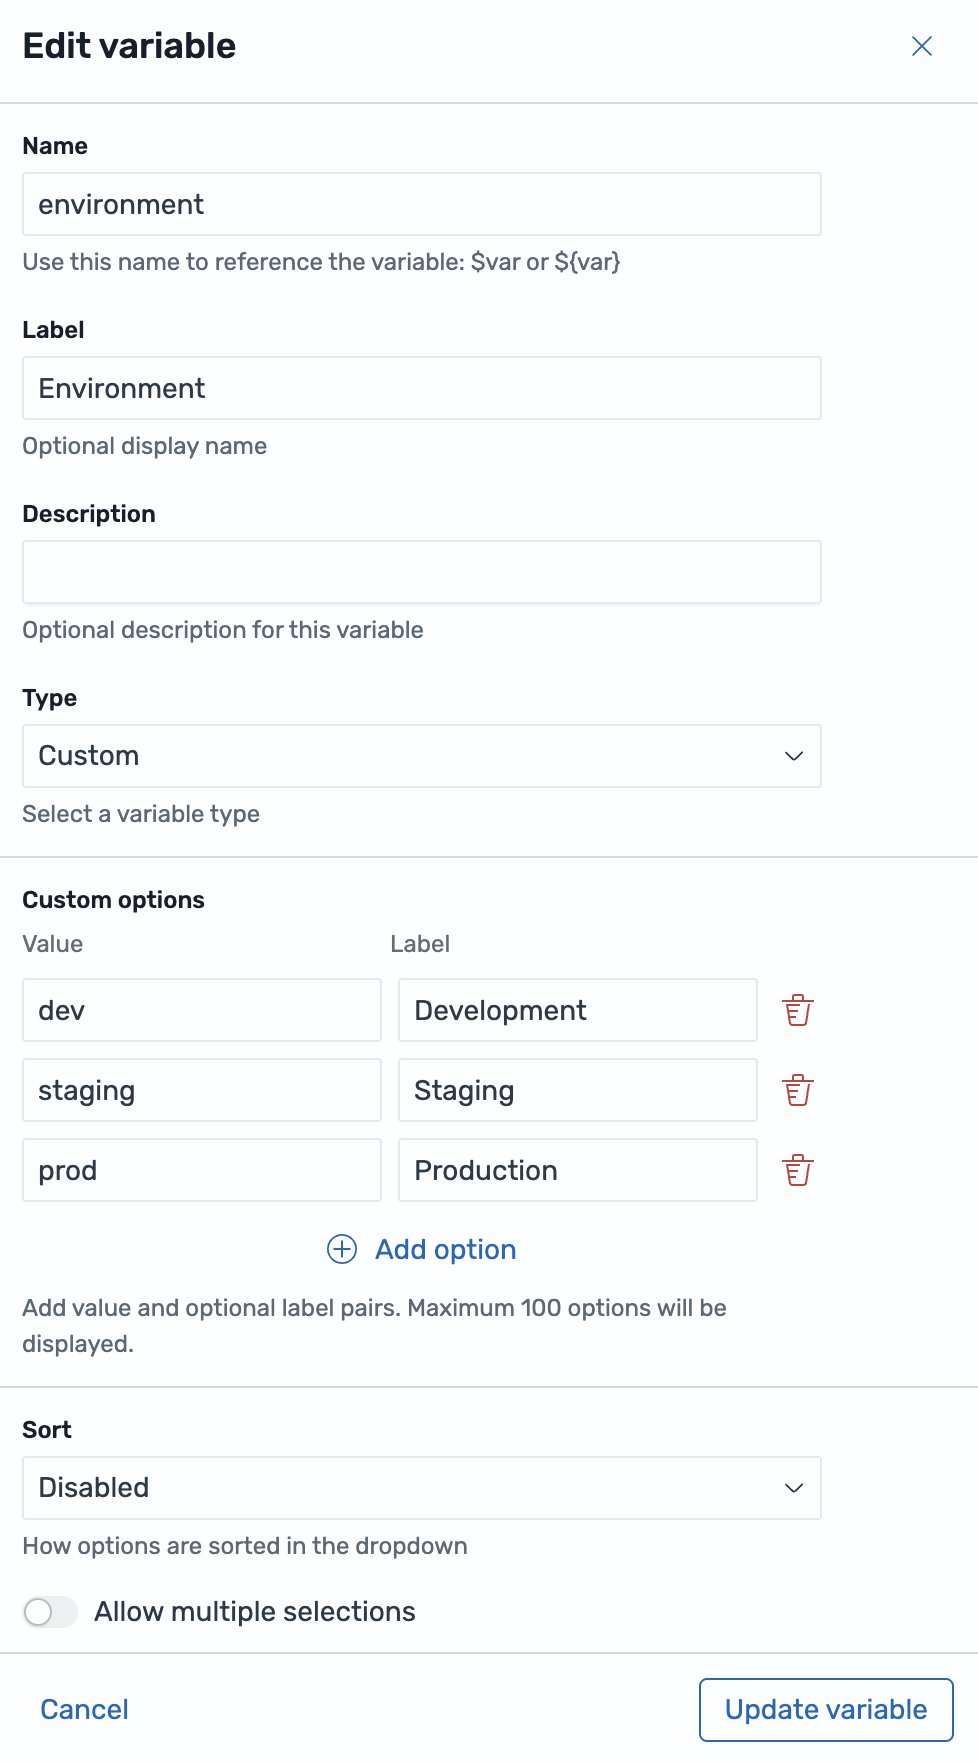
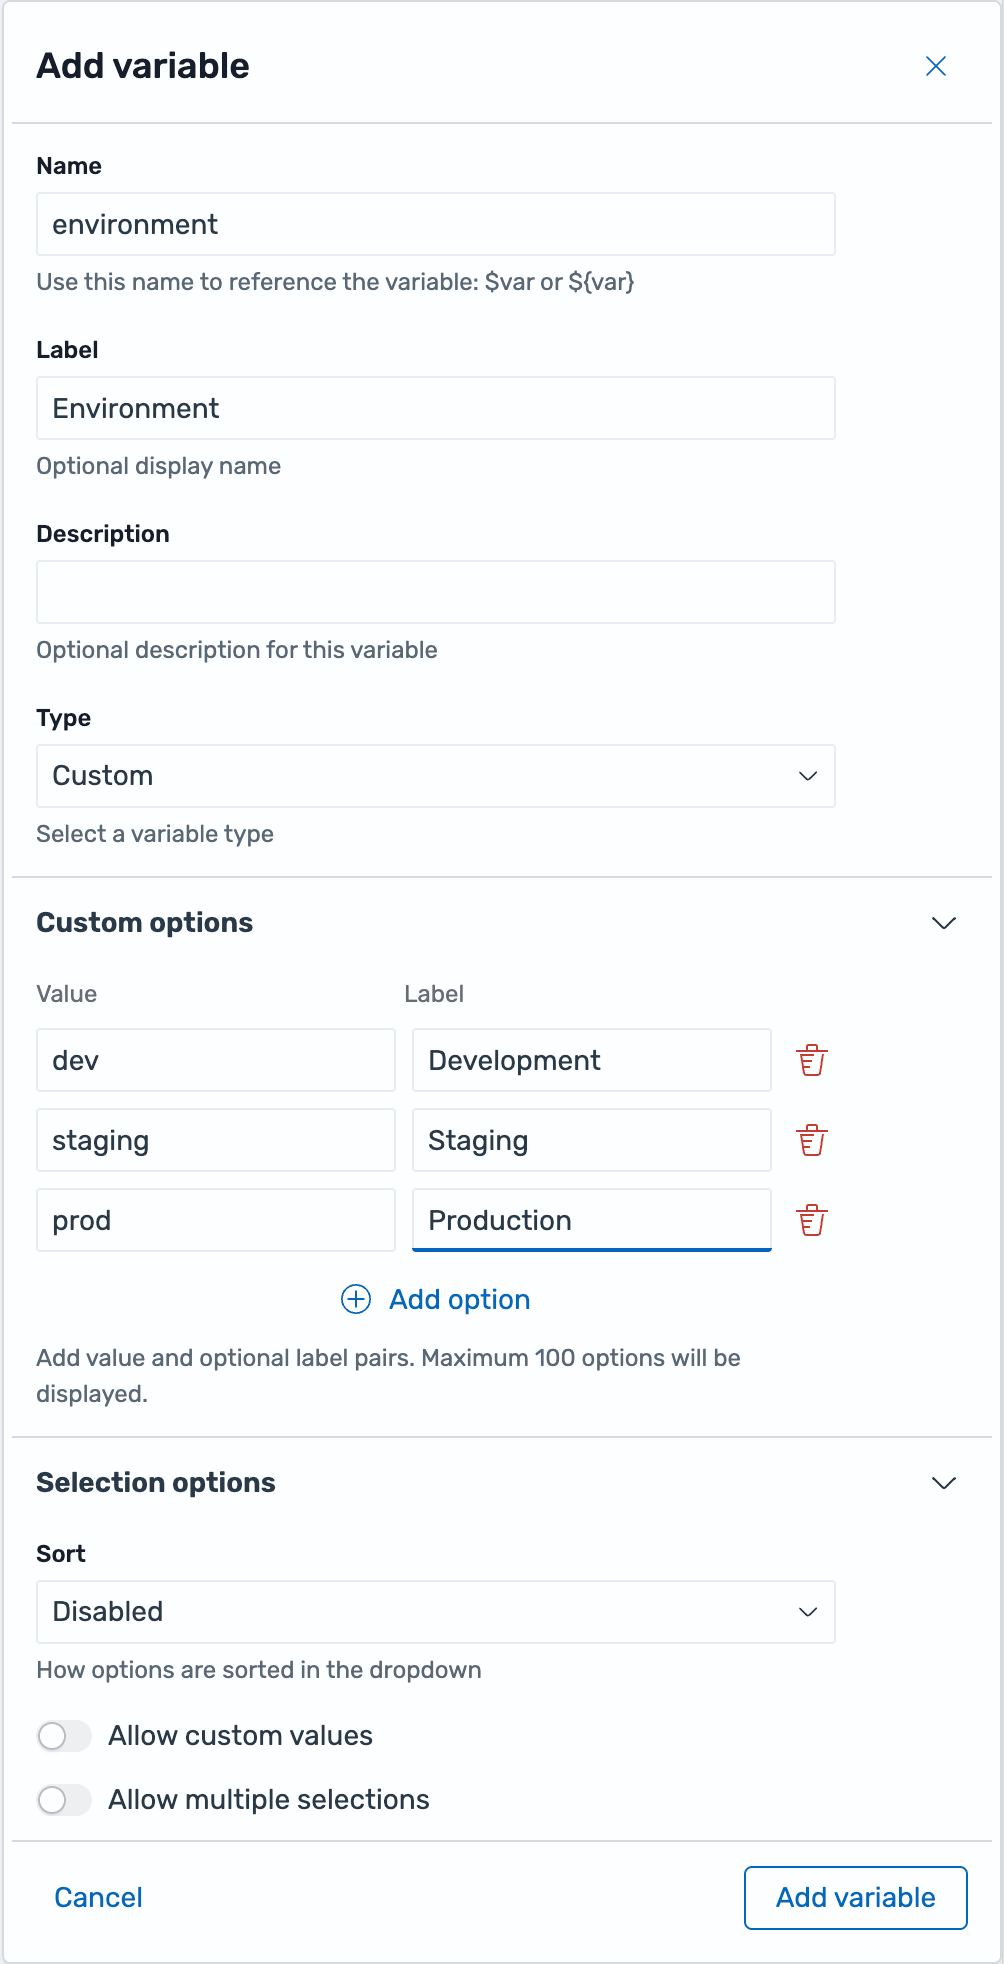
Update Dashboard Variables docs for Text/PromQL/regex and the modal query editor, and document the workspace asset migration wizard

diff --git a/_dashboards/visualize/visualization-editor/dashboard-variables/managing-variables.md b/_dashboards/visualize/visualization-editor/dashboard-variables/managing-variables.md
@@ -37,8 +37,9 @@ To create a query variable, follow these steps:
    - **Label**: Enter `Extension`. This is the display name shown at the top of the dashboard.
    - **Description**: Optionally, enter a description, such as `Filters visualizations by file extension`.
    - **Type**: Select **Query**.
-1. In **Options Query**, keep the language set to **PPL**.
-1. In the dataset selector, select `opensearch_dashboards_sample_data_logs`.
+1. Under **Query options**, select **Open variable editor** to open the query editor. The query editor opens in a modal with a pinned **Preview** panel.
+1. Keep the query language set to **PPL**. To build the query from Prometheus metadata instead, see [Using a PromQL query variable](#using-a-promql-query-variable).
+1. Select **Select dataset** and choose `opensearch_dashboards_sample_data_logs`.
 1. Enter the following query:
 
    ```sql
@@ -46,19 +47,20 @@ To create a query variable, follow these steps:
    ```
    {% include copy.html %}
 
-1. Select **Preview**. The preview runs the query, loads the fields returned by the query, and displays the first 100 variable options. You must successfully preview a query variable before you can save it.
 1. In **Value field**, select `extension`. The value field provides the value inserted into queries when you use `$extension` or `${extension}`.
 1. In **Label field**, keep **None**. Select a label field only when the query returns a separate field to display in the dropdown list in place of the stored value.
-1. Optional: In **Regex**, enter a regular expression to filter the available options by value. For example, `^(css|gz|zip)$` displays only the `css`, `gz`, and `zip` options.
-1. In **Refresh**, choose when OpenSearch Dashboards updates the variable options:
+1. Optional: In **Regex**, enter a regular expression to filter the available options or to extract values and labels from the query results. For example, `^(css|gz|zip)$` displays only the `css`, `gz`, and `zip` options. For more information, see [Filtering and extracting options with a regular expression](#filtering-and-extracting-options-with-a-regular-expression).
+1. Select **Preview**. The preview runs the query and displays the first 100 variable options in the **Preview of values** panel. You must successfully preview a query variable before you can apply it.
+1. Select **Apply** to save the query and close the editor.
+1. Back in the variable editor, in **Refresh**, choose when OpenSearch Dashboards updates the variable options:
    - **On dashboard load**: Refreshes options when the dashboard loads.
    - **On time range change**: Refreshes options when the dashboard time range changes. Use this option when the available values depend on the selected time range.
 1. Configure the shared option settings. For more information, see [Configuring variable option settings](#configuring-variable-option-settings).
 1. Select **Add variable**.
 
-The variable appears at the top of the dashboard. The following image shows an `extension` query variable configured using the sample web logs data.
+The variable appears at the top of the dashboard. The following image shows the query editor for an `extension` query variable configured using the sample web logs data.
 
-![Variable editor panel configured for an extension query variable using sample web logs data]({{site.url}}{{site.baseurl}}/images/dashboard-variables/query-variable-config.png){: width="500" }
+![Query editor configured for an extension PPL query variable using sample web logs data]({{site.url}}{{site.baseurl}}/images/dashboard-variables/query-variable-config.png){: width="700" }
 
 ### Mapping query result fields
 
@@ -70,6 +72,56 @@ A query variable can use one field as the stored value and another field as the 
 For example, if your query returns `service_id` and `service_name`, set **Value field** to `service_id` and **Label field** to `service_name`. The dropdown list displays the service name, and queries receive the service ID.
 
 If you do not select a value field, OpenSearch Dashboards uses the first field returned by the query. To avoid unexpected values, preview the query and explicitly select the field to use as the variable value.
+{: .tip}
+
+### Using a PromQL query variable
+
+When a query variable uses a dataset backed by a Prometheus data connection, you can set the query language to **PromQL**. Instead of writing a raw query, you build the variable from one of the following PromQL query types:
+
+- **Label names**: Lists the label names in the data. You can optionally scope the result to a metric.
+- **Label values**: Lists the values of a label that you choose. You can narrow the result with label matchers (`=`, `!=`, `=~`, and `!~`) and select a metric from the Metrics Explorer.
+- **Metrics**: Lists the metric names. You can optionally filter the result with a regular expression on the metric name.
+- **Series query**: Lists the full time series (label sets) that match a series selector.
+- **Query result**: Evaluates a raw PromQL expression, the same as the free-text path used for PPL.
+
+To create a PromQL query variable, follow these steps:
+
+1. At the top of the dashboard, select **Add variable**, and set **Type** to **Query**.
+1. Under **Query options**, select **Open variable editor** to open the query editor.
+1. Set the query language to **PromQL**.
+1. Select **Select dataset** and choose a dataset backed by a Prometheus data connection.
+1. In **Query type**, select a query type (for example, **Label values**) and complete its fields. For **Label values**, select the label and, optionally, a metric and one or more label matchers.
+1. Select **Preview** to load the options, then select **Apply** to save the query and close the editor.
+1. Configure refresh behavior, and then select **Add variable**.
+
+The following image shows a PromQL query variable configured with the **Label values** query type.
+
+![Variable editor panel configured for a PromQL label values query variable]({{site.url}}{{site.baseurl}}/images/dashboard-variables/promql-query-variable-config.png){: width="700" }
+
+A PromQL query variable requires a dataset backed by a Prometheus data connection in your Observability workspace.
+{: .note}
+
+### Filtering and extracting options with a regular expression
+
+The **Regex** field in a query variable supports two behaviors. You can enter the expression as a bare pattern (for example, `^win`) or in `/pattern/flags` form (for example, `/^win/i`).
+
+The following examples use a query variable created from the sample web logs `machine.os` field:
+
+```sql
+source = opensearch_dashboards_sample_data_logs | stats count() by `machine.os` | fields `machine.os`
+```
+{% include copy.html %}
+
+Previewing this query returns the options `ios`, `osx`, `win 7`, `win 8`, and `win xp`. You can then apply a regular expression to those results:
+
+- **Filtering**: When the regular expression has no `value` or `label` capture group, OpenSearch Dashboards keeps only the options that match and leaves them unchanged. For example, `^win` keeps only `win 7`, `win 8`, and `win xp`.
+- **Extracting**: When the regular expression includes a named `(?<value>...)` capture group, OpenSearch Dashboards replaces each option's value with the captured text. An optional named `(?<label>...)` group sets the display label. Options that resolve to the same value are deduplicated automatically. For example, `^(?<value>ios|osx|win)` extracts the operating system family, so `win 7`, `win 8`, and `win xp` collapse into a single `win` option, leaving `ios`, `osx`, and `win`.
+
+To set a separate display label, add a `(?<label>...)` group. For example, if a query returns compound values such as `env=dev,label=Development`, the pattern `^env=(?<value>[^,]+),label=(?<label>.+)$` stores `dev` as the value and shows `Development` in the dropdown.
+
+![Regex field extracting the operating system family from the sample web logs machine.os field]({{site.url}}{{site.baseurl}}/images/dashboard-variables/regex-capture-groups.png){: width="700" }
+
+When you edit an existing variable, the query preview runs automatically so that you can see the extracted options right away.
 {: .tip}
 
 ## Creating a custom variable
@@ -100,6 +152,30 @@ The following image shows an `environment` custom variable configured with value
 
 ![Variable editor panel configured for an environment custom variable with value and label option rows]({{site.url}}{{site.baseurl}}/images/dashboard-variables/custom-variable-config.png){: width="500" }
 
+## Creating a text variable
+
+Use a text variable when you want to type a single free-form value directly, without an option list. For example, you can create a `search_term` variable and change its value from the variables bar without opening the editor.
+
+To create a text variable, follow these steps:
+
+1. In your Observability workspace, select **Dashboards** in the left navigation.
+1. Open an existing dashboard or select **Create** > **Dashboard** to create a new dashboard. If you create a new dashboard, save it first by entering a title and selecting **Save**.
+1. At the top of the dashboard, select **Add variable**.
+1. Configure the following general settings:
+   - **Name**: Enter `search_term`. This is the identifier used to reference the variable in queries, for example, `$search_term` or `${search_term}`.
+   - **Label**: Enter `Search term`.
+   - **Description**: Optionally, enter a description.
+   - **Type**: Select **Text**.
+1. In **Value**, enter an initial value.
+1. Select **Add variable**.
+
+The text variable appears at the top of the dashboard as an input box. Enter a value and press **Enter**, or select outside the box, to apply it. The value is applied when you finish editing, not on every keystroke, so visualizations that reference the variable do not re-run while you type.
+
+![Variable editor panel configured for a text variable with a free-form value]({{site.url}}{{site.baseurl}}/images/dashboard-variables/text-variable-config.png){: width="500" }
+
+A text variable has no option list, so the **Sort**, **Allow multiple selections**, **Include All option**, and **Allow custom values** settings do not apply and are hidden for this type.
+{: .note}
+
 ## Configuring variable option settings
 
 Query variables and custom variables share the following option settings:
@@ -107,6 +183,7 @@ Query variables and custom variables share the following option settings:
 - **Sort**: Controls how options are sorted in the dropdown list. Select **Disabled**, **Alphabetical** ascending or descending, or **Numerical** ascending or descending.
 - **Allow multiple selections**: Allows you to select more than one value from the variable dropdown list.
 - **Include All option**: Adds an **All** option to the dropdown list. This setting is available only when **Allow multiple selections** is turned on.
+- **Allow custom values**: Lets you commit a value that is not in the generated or static option list. When this setting is turned on, typing in the variable dropdown's search box offers the typed value as the first row, labeled **Hit enter to add**. Press **Enter** or select the row to add it. In a multiple-selection variable, the custom value is appended to the current selection; in a single-selection variable, it replaces the current value. A custom value is stored as the variable's selected value only; it is not added to the variable definition.
 
 ## Managing existing variables
 

diff --git a/_dashboards/visualize/visualization-editor/dashboard-variables/index.md b/_dashboards/visualize/visualization-editor/dashboard-variables/index.md
@@ -29,11 +29,13 @@ Use dashboard variables to:
 
 ## Variable types
 
-OpenSearch Dashboards supports two types of variables:
+OpenSearch Dashboards supports three types of variables:
 
-- **Query variables**: Options are dynamically fetched from a data source using a Piped Processing Language (PPL) or Prometheus Query Language (PromQL) query. Use query variables when values change over time or depend on underlying data, such as service names from logs or available regions from metrics.
+- **Query variables**: Options are dynamically fetched from a data source using a Piped Processing Language (PPL) or Prometheus Query Language (PromQL) query. Use query variables when values change over time or depend on underlying data, such as service names from logs or available regions from metrics. For a Prometheus data connection, you can build the query from PromQL query types (label names, label values, metrics, or series) instead of writing a raw query. For more information, see [Using a PromQL query variable]({{site.url}}{{site.baseurl}}/dashboards/visualize/visualization-editor/dashboard-variables/managing-variables/#using-a-promql-query-variable).
 
 - **Custom variables**: Options are manually defined as a static list. Use custom variables for predefined categories like environment types (`dev`, `staging`, `prod`) or fixed status codes.
+
+- **Text variables**: A single free-form value that you type directly in the variables bar, with no option list. Use text variables for ad hoc values, such as a search term or a threshold, that you want to change without opening the variable editor.
 
 ## Variable syntax
 
@@ -88,18 +90,19 @@ For more information, see [Create a workspace]({{site.url}}{{site.baseurl}}/dash
 1. Select **Create** > **Dashboard**.
 1. Save the dashboard by entering a title (for example, `Log Analysis`) and selecting **Save**.
 1. At the top of the dashboard, select **Add variable**.
-1. Configure the following settings:
-   - **Name**: `extension`
-   - **Type**: **Query**
-   - **Dataset**: Select `opensearch_dashboards_sample_data_logs`
-   - **Options Query**:
+1. In **Name**, enter `extension`, and set **Type** to **Query**.
+1. Under **Query options**, select **Open variable editor** to open the query editor.
+1. Keep the query language set to **PPL**, select **Select dataset** and choose `opensearch_dashboards_sample_data_logs`.
+1. Enter the following query:
 
-     ```sql
-     source=opensearch_dashboards_sample_data_logs | stats count() by extension | fields extension
-     ```
-     {% include copy.html %}
+   ```sql
+   source=opensearch_dashboards_sample_data_logs | stats count() by extension | fields extension
+   ```
+   {% include copy.html %}
 
-1. Select **Preview** to verify the results. The preview should display values: `css`, `deb`, `gz`, `rpm`, and `zip`.
+1. In **Value field**, select `extension`.
+1. Select **Preview** to verify the results. The preview should display `css`, `deb`, `gz`, `rpm`, and `zip`, along with an empty value for documents that have no file extension.
+1. Select **Apply** to save the query and close the editor.
 1. Select **Add variable** to save.
 
 The `extension` variable now appears at the top of the dashboard with a dropdown.

diff --git a/_dashboards/workspace/manage-workspace.md b/_dashboards/workspace/manage-workspace.md
@@ -52,6 +52,23 @@ The **Workspace details** page features the following buttons in the upper-right
 
 Access the **Sample data** in the navigation menu on the left. Select the appropriate dataset to install it in your cluster and OpenSearch Dashboards.
 
+## Migrating unassigned assets into a workspace
+
+Saved objects created before workspaces were enabled do not belong to any workspace. Because every workspace view filters by the `workspaces` field, these assets are hidden from inside any workspace even though they still exist in the cluster. A [dashboard admin]({{site.url}}{{site.baseurl}}/dashboards/workspace/workspace-acl/#configuring-dashboard-administrators) can move these assets into a new workspace using the migration wizard.
+
+When unassigned assets exist, the workspaces landing page shows a **Migrate existing assets (N)** button, where `N` is the number of unassigned assets. A one-time guided tour points to this button. Select the button to open the migration wizard.
+
+The migration wizard is available only to dashboard admins, and the button appears only when unassigned assets exist.
+{: .note}
+
+The wizard guides you through three steps:
+
+1. **Review**: Explains why the assets are hidden, lets you enter a name for the new target workspace, and lists every unassigned asset. You can search the list and filter it by asset type, but the whole set is always migrated regardless of the search term or filter.
+1. **Running**: Creates the new workspace and then migrates the assets into it. You cannot close the wizard while it runs. All data sources and data connections are connected to the new workspace at creation time, so migrated dashboards keep rendering.
+1. **Result**: Shows a summary callout with the number of migrated assets, failed assets, and connected data sources, along with a per-asset outcome table. Select **Go to \<workspace\>** to open the new workspace and view the migrated assets.
+
+If some assets fail to migrate, they remain unassigned and are listed with the reason they failed. Select **Continue migrating** to retry. The retry reuses the workspace that was already created instead of creating a second one.
+
 ## Copying assets between workspaces
 
 Data sources and configuration copying are not supported.

diff --git a/_dashboards/visualize/visualization-editor/dashboard-variables/using-variables.md b/_dashboards/visualize/visualization-editor/dashboard-variables/using-variables.md
@@ -184,13 +184,13 @@ To filter a visualization by a variable value, follow these steps:
    1. In your Observability workspace, select **Dashboards** in the left navigation.
    1. Open an existing dashboard or select **Create** > **Dashboard** to create a new dashboard. If creating a new dashboard, save it first by entering a title and selecting **Save**.
    1. At the top of the dashboard, select **Add variable**.
-   1. In the **Name**, enter `machine_os`. In the **Type**, select **Query**. In the **Options Query**, select `opensearch_dashboards_sample_data_logs`. In the query box, enter the following query:
+   1. In **Name**, enter `machine_os`, and set **Type** to **Query**. Under **Query options**, select **Open variable editor**, choose `opensearch_dashboards_sample_data_logs` as the dataset, keep the language set to **PPL**, and enter the following query:
    
       ```sql
       | FIELDS `machine.os`
       ```
       {% include copy.html %}
-   1. Select **Preview** and make sure that you see values such as `win 8`, `ios`, and `win xp` in the **Preview of values**. Then select **Add variable** to save.
+   1. Select **Preview** and make sure that you see values such as `win 8`, `ios`, and `win xp` in the **Preview of values**. Select **Apply** to save the query, and then select **Add variable** to save.
 
 
 1. Filter by a variable value:
